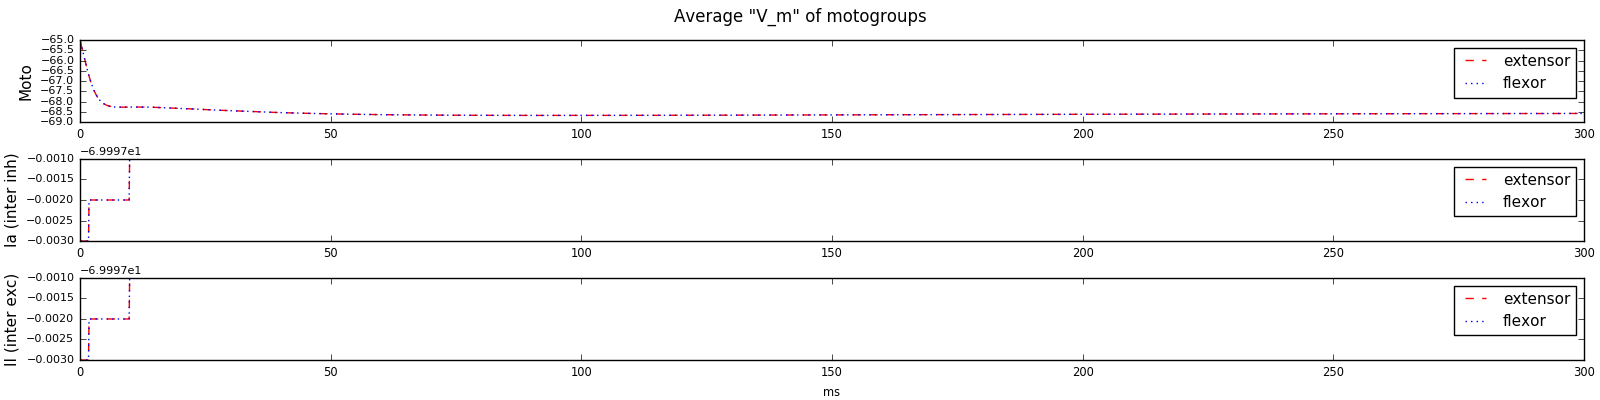
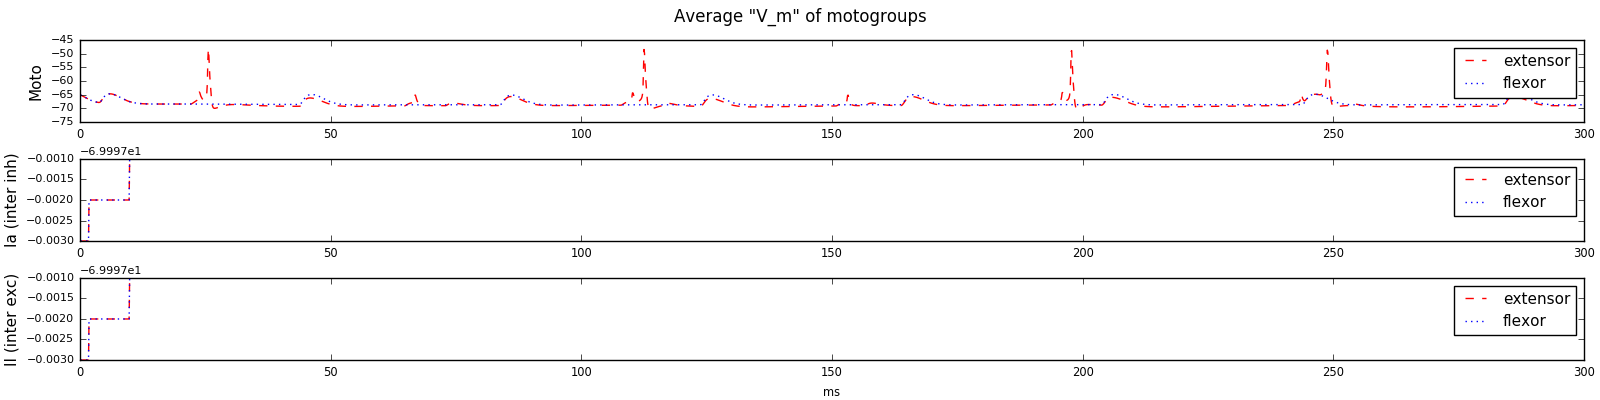
scheme with basic tear model configured

Changed region(s): [[0.0, 0.09, 1.0, 0.33]]

diff --git a/spinal_cord/ees/ees.py b/spinal_cord/ees/ees.py
@@ -29,6 +29,7 @@ class EES:
         currents_delta = abs(available_currents - amplitude)
         closest_computed_current_index = currents_delta.argmin()
         percent = ruler[closest_computed_current_index] / max(ruler)
+        print('percent = {}'.format(percent))
         return percent
 
     @staticmethod
@@ -42,7 +43,7 @@ class EES:
         # start = 1000 // frequency_hz
         time_between_spikes = round(1000 / frequency_hz)
         # return numpy.linspace(start, how_long_s * 1000, how_many, dtype=numpy.int)
-        return [10. + time_between_spikes * i for i in range(how_many)]
+        return [0.1 + time_between_spikes * i for i in range(how_many)]
 
     def __init__(self, amplitude: float):
         spike_times = EES.generate_spiketimes(frequency_hz=Params.rate.value, how_long_s=20)
@@ -90,7 +91,7 @@ class EES:
             },
             conn_spec={
                 'rule': 'fixed_outdegree',
-                'outdegree': 45,
+                'outdegree': 54,
                 'multapses': False
             }
         )

diff --git a/spinal_cord/weights.py b/spinal_cord/weights.py
@@ -35,11 +35,11 @@ class Weights:
 
     # Connections to pool
 
-    e2p = 0.
+    e2p = 20.
 
     # Motogroup interconnections
 
-    aff_ia_moto = 0.
+    aff_ia_moto = 13.
     aff_ia_ia = 0.
     aff_ii_ia = 0.
     aff_ii_ii = 0.
@@ -48,7 +48,7 @@ class Weights:
     ia_moto = 0.
 
     # Pool to Motogroup
-    p_ex_moto = 0.
+    p_ex_moto = 1000.
     p_ex_ia = 0.
     p_fl_moto = 0.
     p_fl_ia = 0.

diff --git a/spinal_cord/polysynaptic_circuit/pc.py b/spinal_cord/polysynaptic_circuit/pc.py
@@ -70,9 +70,10 @@ class PolysynapticCircuit:
             syn_spec={
                 'model': 'static_synapse',
                 'delay': 1.,
-                'weight': 5.
+                'weight': 30.
             },
             conn_spec={
-                'rule': 'one_to_one'
+                'rule': 'fixed_indegree',
+                'indegree': 3
             }
         )

diff --git a/spinal_cord/fibers.py b/spinal_cord/fibers.py
@@ -14,7 +14,7 @@ class AfferentFibers:
         self.dsr = DummySensoryReceptor()
         self.dsaf = DummySensoryAfferentFiber(self.dsr)
 
-        self.ees_amplitude = 600
+        self.ees_amplitude = 500
         self.ees = EES(amplitude=self.ees_amplitude)
         self.ees.connect(
             self.afferent_fiber_ia_flex,

diff --git a/spinal_cord/pool/pool.py b/spinal_cord/pool/pool.py
@@ -197,8 +197,8 @@ class Pool:
                 'weight': Weights.p_ex_moto
             },
             conn_spec={
-                'rule': 'fixed_indegree',
-                'indegree': 25
+                'rule': 'fixed_outdegree',
+                'outdegree': 5
             }
         )
 
